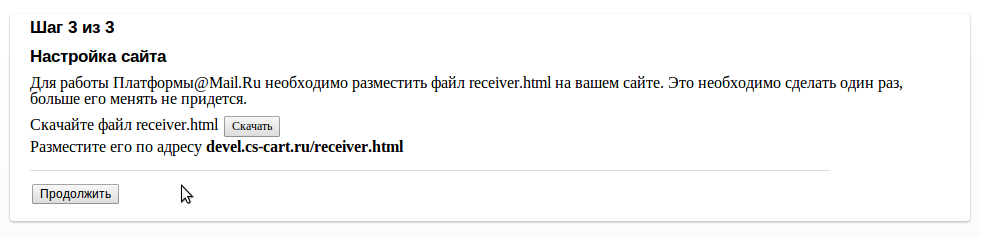
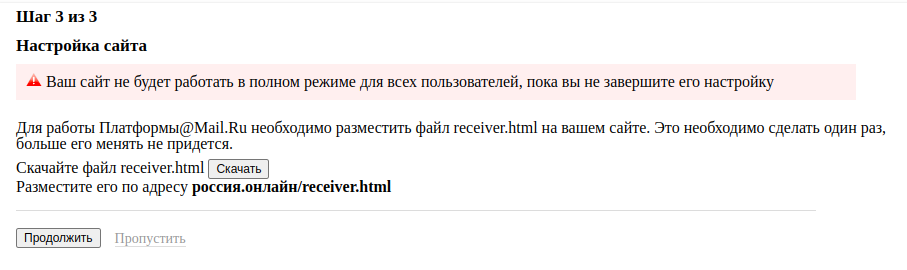
[~] Docs: Social login article updated.

Changed region(s): [[0.0, 0.0295, 0.9879, 0.7384], [0.0, 0.7679, 0.9879, 0.9451]]

diff --git a/ru/user_guide/addons/social_login/index.rst b/ru/user_guide/addons/social_login/index.rst
@@ -441,7 +441,7 @@ Mail.ru
     .. fancybox:: img/hybrid_auth_61.png
         :alt: HybridAuth 
 
-4.  Во избежание возможных ошибок, скачайте и разместите файл receiver.html в основном каталоге интернет-магазина, как это предложено `mail.ru <https://mail.ru/>`_.
+4.  Во избежание возможных ошибок, скачайте и разместите файл receiver.html в основном каталоге интернет-магазина, как это предложено `mail.ru <https://mail.ru/>`_. Нажмите *Пропустить*.
     
     .. fancybox:: img/hybrid_auth_62.png
         :alt: HybridAuth 
